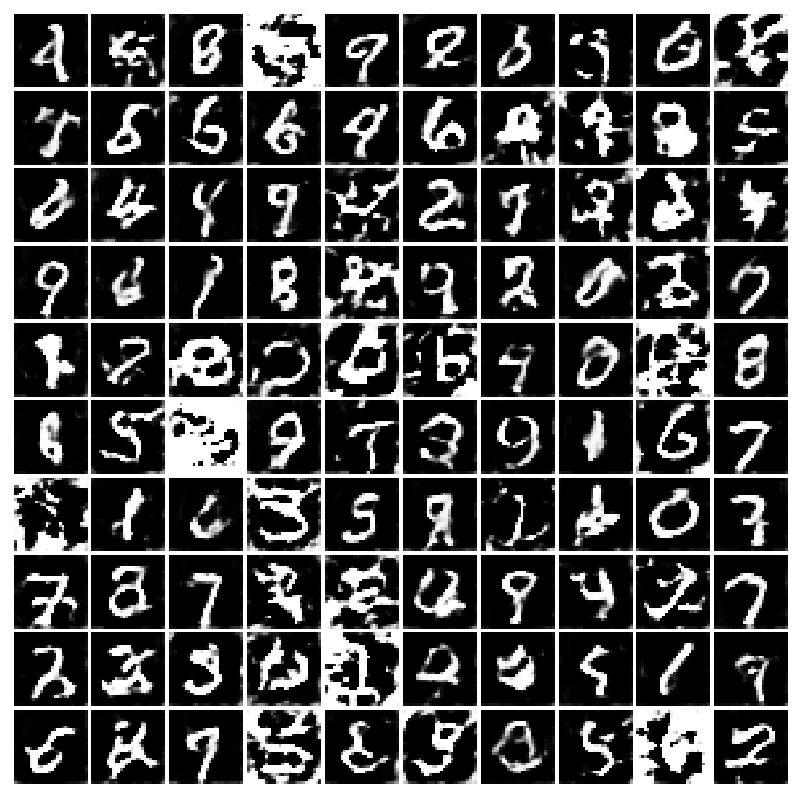
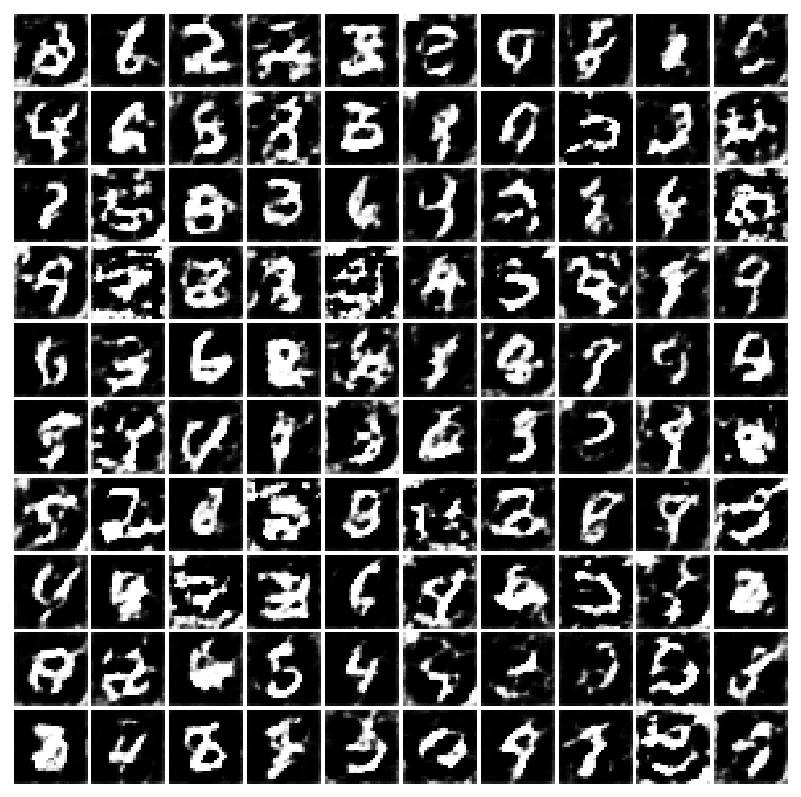
param selection updated

diff --git a/CapsDiscriminator.py b/CapsDiscriminator.py
@@ -4,16 +4,19 @@ import torch.nn.functional as F
 from torch.autograd import Variable
 
 class CapsDiscriminatorMNIST(nn.Module):
-	def __init__(self, input_size, routings, classes):
+	def __init__(self, input_size, routings, classes, d=256, num_dims=8, num_maps=32):
 		super(CapsDiscriminatorMNIST, self).__init__()
 		self.input_size = input_size
 		self.classes = classes
 		self.routings = routings
+		self.d = d #256
+		self.num_dims = num_dims
+		self.num_maps = num_maps
 
-		self.conv1 = nn.Conv2d(input_size[0], 256, kernel_size=9, stride=1, padding=0)
-		self.primarycaps = PrimaryCapsule()
-		self.digitcaps = DenseCapsule(num_caps_in=32*6*6, num_dims_in=8,
-									  num_caps_out=classes, num_dims_out=16, routings=routings)
+		self.conv1 = nn.Conv2d(input_size[0], self.d, kernel_size=9, stride=1, padding=0)
+		self.primarycaps = PrimaryCapsule(num_dims=self.num_dims, num_maps=self.num_maps, d=self.d)
+		self.digitcaps = DenseCapsule(num_caps_in=self.num_maps*6*6, num_dims_in=self.num_dims, ###8
+									  num_caps_out=classes, num_dims_out=self.num_dims*2, routings=routings) ##16
 
 		self.relu = nn.ReLU()
 	def forward(self, x, y=None):
@@ -31,12 +34,12 @@ def squash(inputs, axis=-1):
 
 
 class PrimaryCapsule(nn.Module):
-	def __init__(self, num_maps=32, num_dims=8):		
+	def __init__(self, num_maps=32, num_dims=4, d=256):		###8
 		super(PrimaryCapsule, self).__init__()
 		self.num_maps = num_maps
 		self.num_caps = 6 * 6 * self.num_maps
 		self.num_dims = num_dims
-		self.conv1 = nn.Conv2d(256, self.num_maps * self.num_dims, kernel_size=9, stride=2, padding=0)
+		self.conv1 = nn.Conv2d(d, self.num_maps * self.num_dims, kernel_size=9, stride=2, padding=0)
 
 	def forward(self, x):
 		# 20, 20, 256

diff --git a/GANs-MNIST.py b/GANs-MNIST.py
@@ -14,11 +14,12 @@ train_data, test_data = get_mnist_data(batch_size=batch_size)
 G = ConvGeneratorMNIST()
 D = ConvDiscriminatorMNIST()
 
-train_gan(G,D, train_data, epochs, batch_size, save_gen_images=save_images, filename_prefix="ConvConv/train")
+# train_gan(G,D, train_data, epochs, batch_size, save_gen_images=save_images, filename_prefix="ConvConv/train")
 
 #CapsGAN -> G: Conv D: Caps
 G = ConvGeneratorMNIST()
-D = CapsDiscriminatorMNIST(input_size=[1, 28, 28], classes=1, routings=3) 
+# D = CapsDiscriminatorMNIST(input_size=[1, 28, 28], classes=1, routings=3)
+D = CapsDiscriminatorMNIST(input_size=[1, 28, 28], classes=1, routings=3, d=128, num_dims=4, num_maps=16)
 
 train_gan(G,D, train_data, epochs, batch_size, save_gen_images=save_images, filename_prefix="ConvCaps/train")
 print("score:", get_inception_score(G))
